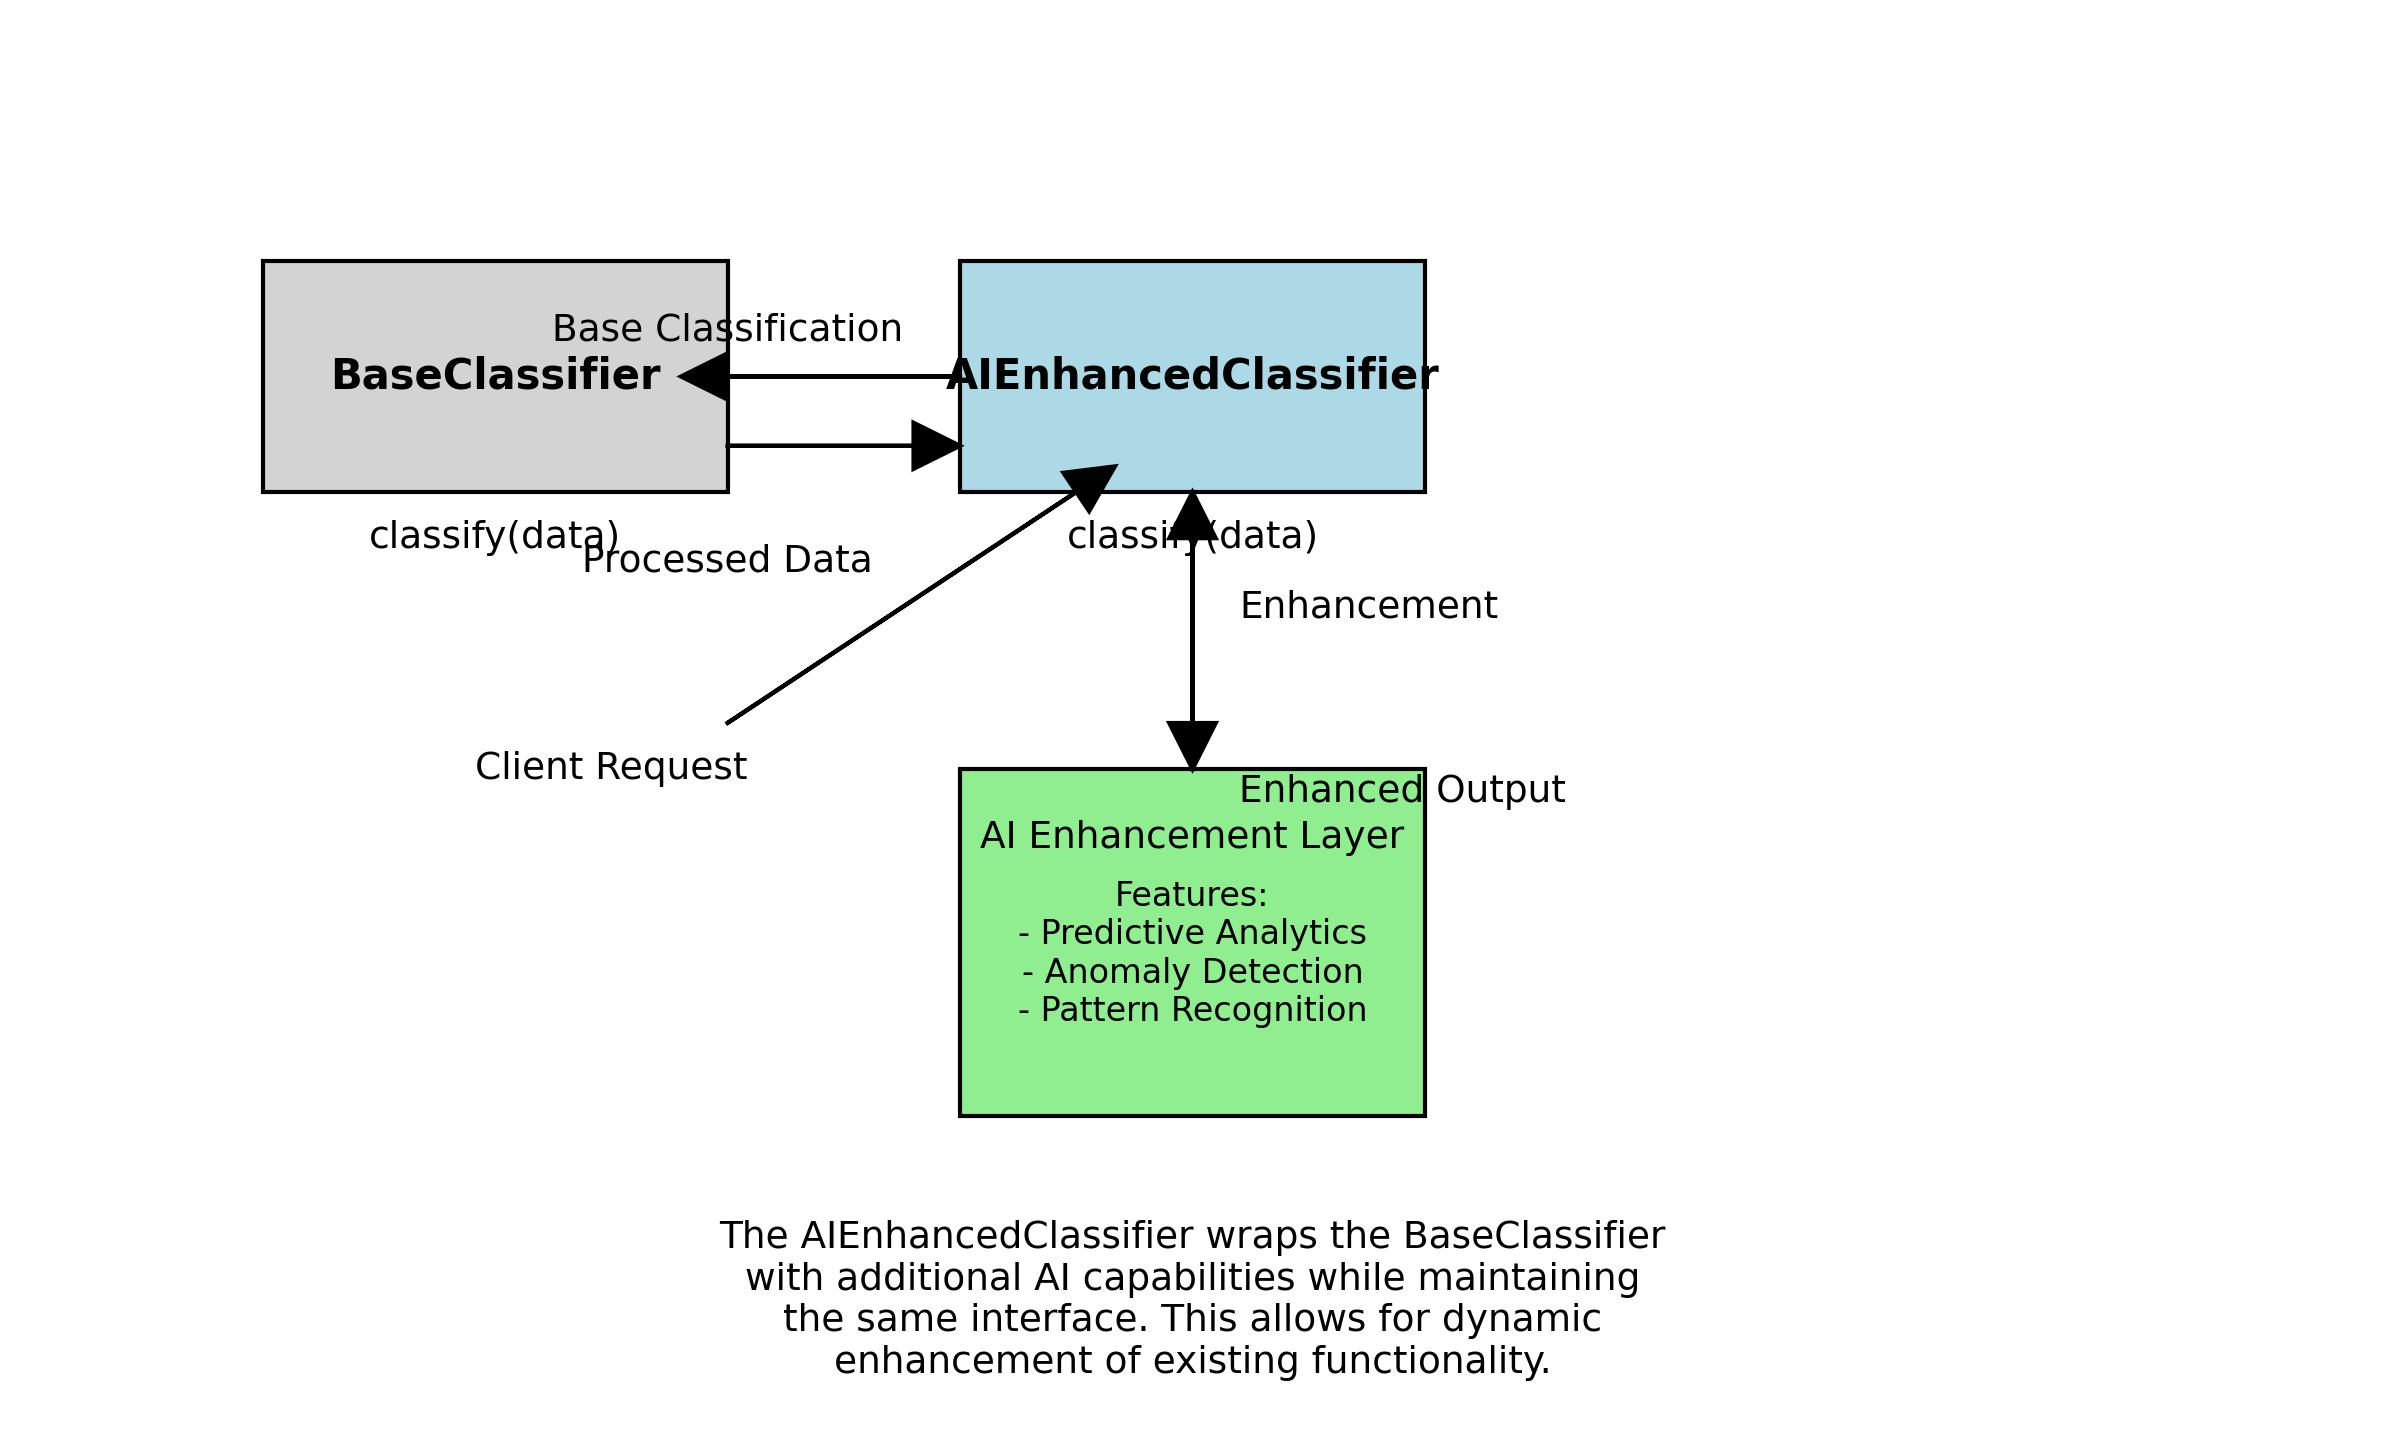
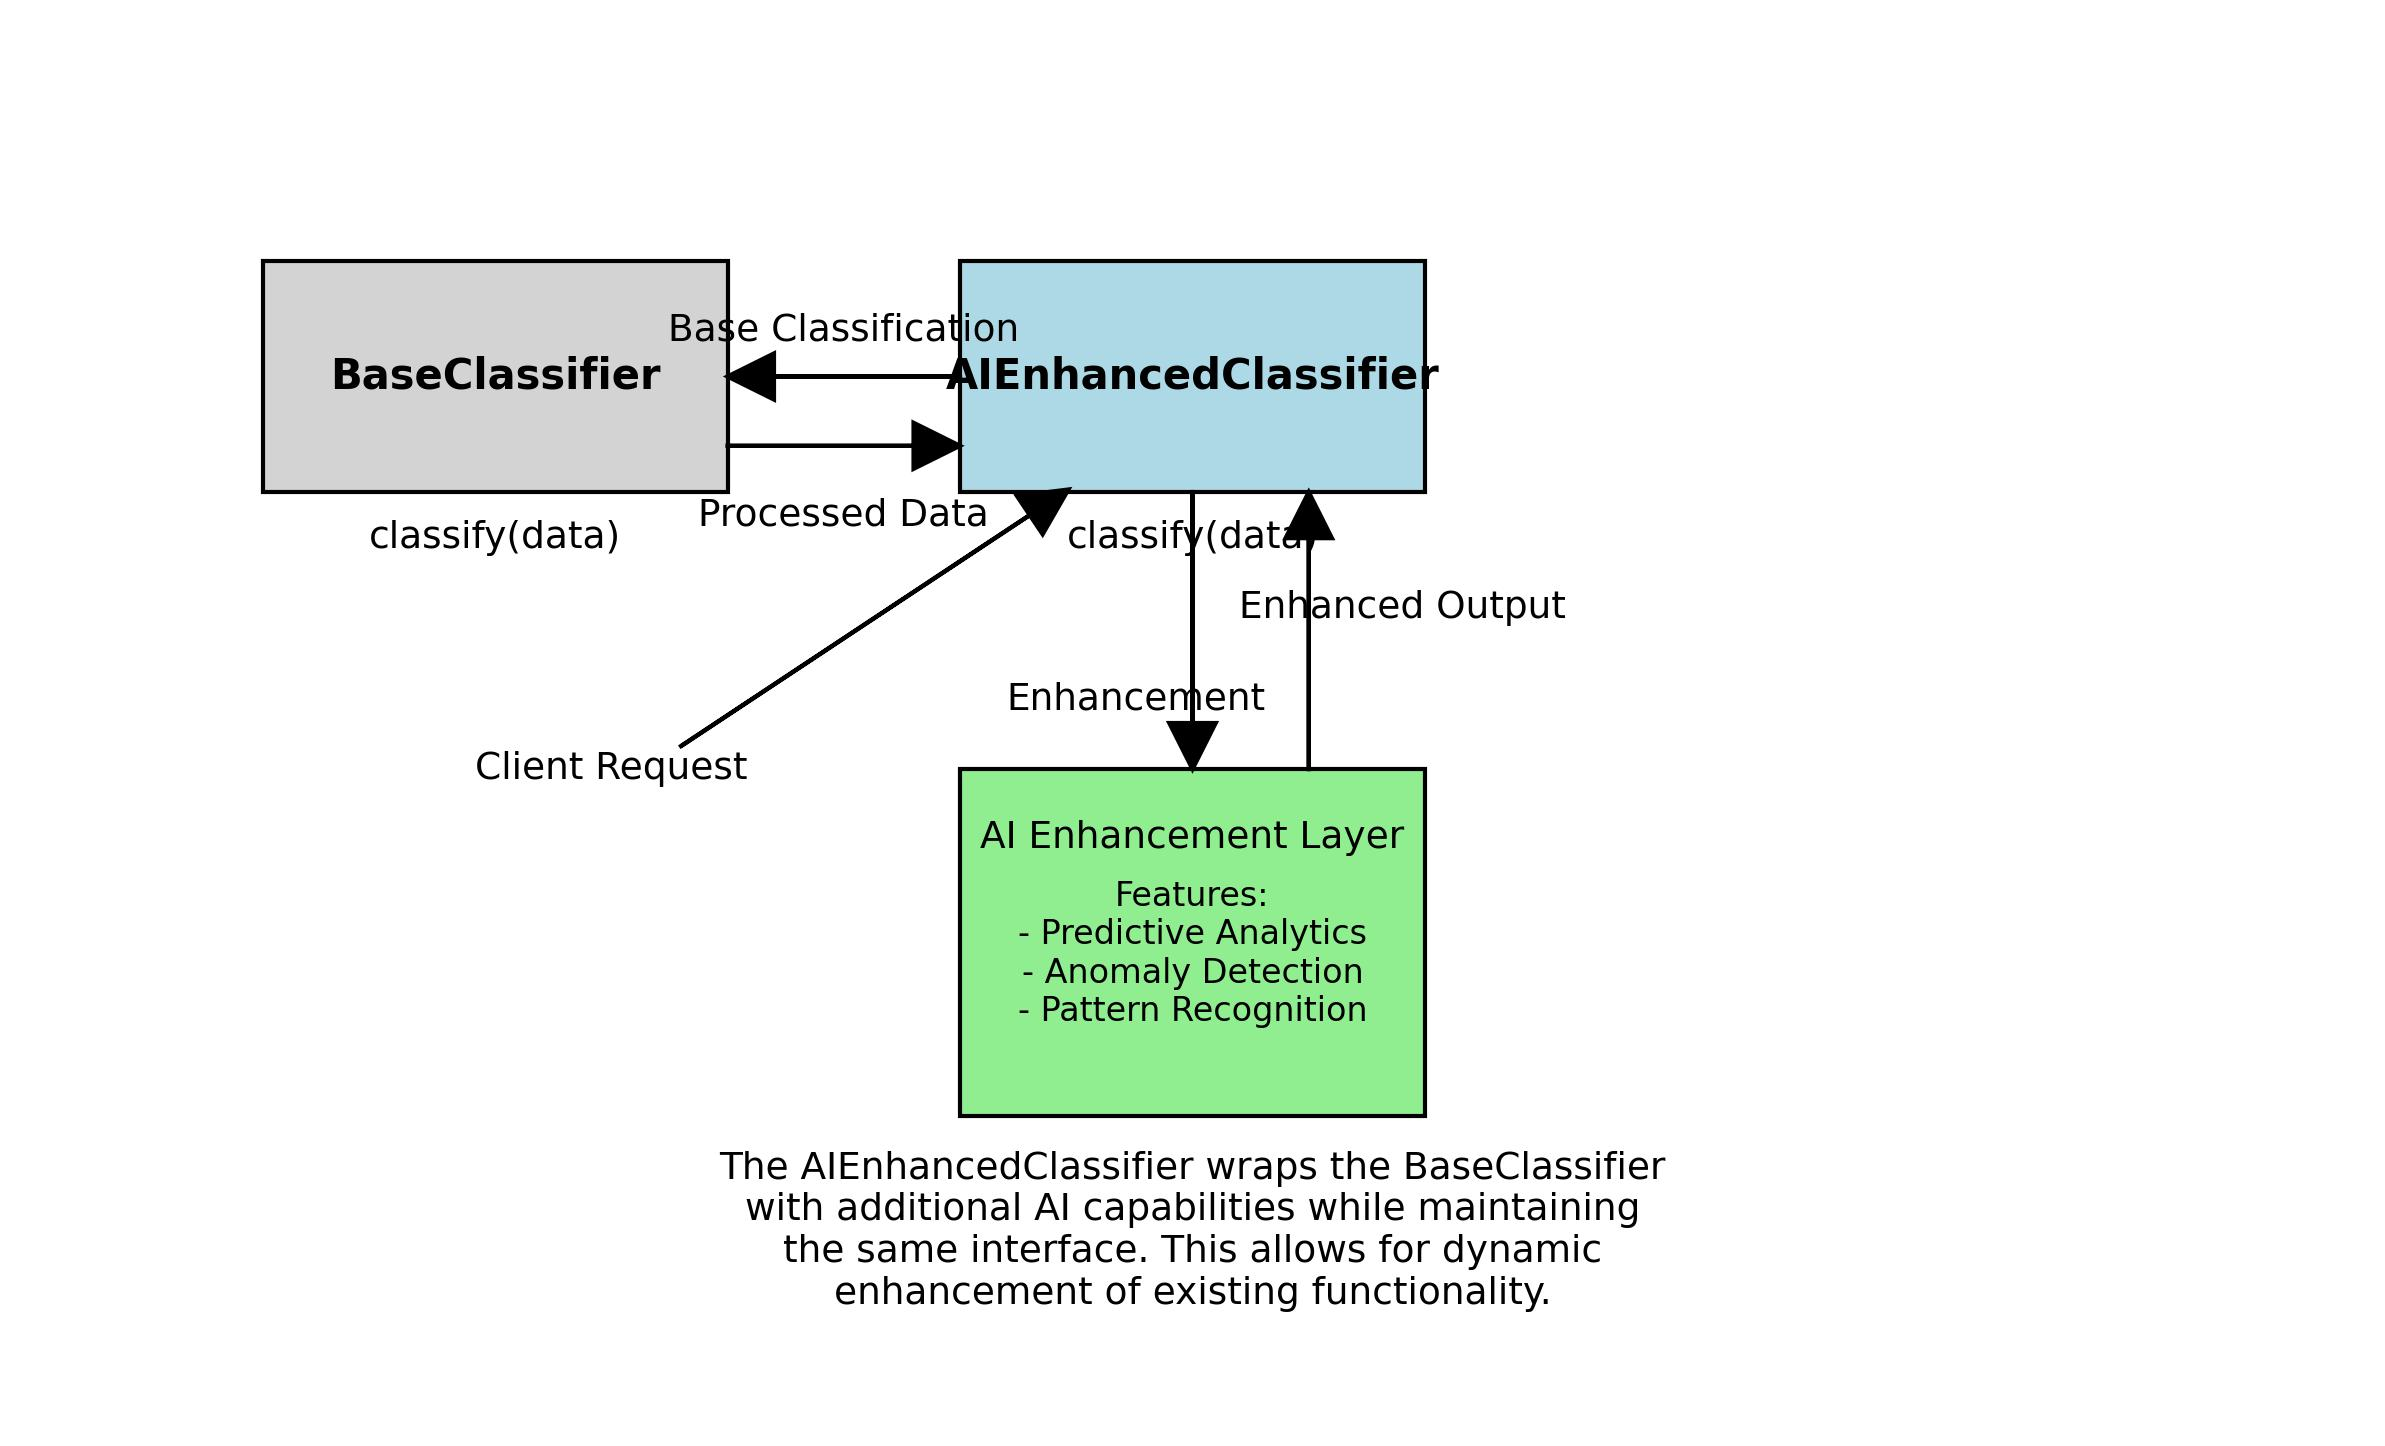
Update decorator figure.

diff --git a/draw_ai_decorator.py b/draw_ai_decorator.py
@@ -20,27 +20,27 @@ ax.text(5, 2.0, 'Features:\n- Predictive Analytics\n- Anomaly Detection\n- Patte
 
 # Draw arrows showing data flow
 # From client to AIEnhancedClassifier
-ax.arrow(3.0, 3.0, 1.5, 1, head_width=0.2, head_length=0.2, fc='black', ec='black')
+ax.arrow(2.8, 2.9, 1.5, 1, head_width=0.2, head_length=0.2, fc='black', ec='black')
 ax.text(2.5, 2.8, 'Client Request', fontsize=9, ha='center', va='center')
 
 # From AIEnhancedClassifier to BaseClassifier
-ax.arrow(4, 4.5, -1, 0, head_width=0.2, head_length=0.2, fc='black', ec='black')
-ax.text(3, 4.7, 'Base Classification', fontsize=9, ha='center', va='center')
+ax.arrow(4, 4.5, -0.8, 0, head_width=0.2, head_length=0.2, fc='black', ec='black')
+ax.text(3.5, 4.7, 'Base Classification', fontsize=9, ha='center', va='center')
 
 # From BaseClassifier to AIEnhancedClassifier
 ax.arrow(3, 4.2, 0.8, 0, head_width=0.2, head_length=0.2, fc='black', ec='black')
-ax.text(3, 3.7, 'Processed Data', fontsize=9, ha='center', va='center')
+ax.text(3.5, 3.9, 'Processed Data', fontsize=9, ha='center', va='center')
 
 # From AIEnhancedClassifier to AI Enhancement Layer
 ax.arrow(5, 4, 0, -1, head_width=0.2, head_length=0.2, fc='black', ec='black')
-ax.text(5.2, 3.5, 'Enhancement', fontsize=9, ha='left', va='center')
+ax.text(4.2, 3.1, 'Enhancement', fontsize=9, ha='left', va='center')
 
 # From AI Enhancement Layer to AIEnhancedClassifier
-ax.arrow(5, 2.8, 0, 1, head_width=0.2, head_length=0.2, fc='black', ec='black')
-ax.text(5.2, 2.7, 'Enhanced Output', fontsize=9, ha='left', va='center')
+ax.arrow(5.5, 2.8, 0, 1, head_width=0.2, head_length=0.2, fc='black', ec='black')
+ax.text(5.2, 3.5, 'Enhanced Output', fontsize=9, ha='left', va='center')
 
 # Add explanation text
-ax.text(5, 0.5, 'The AIEnhancedClassifier wraps the BaseClassifier\nwith additional AI capabilities while maintaining\nthe same interface. This allows for dynamic\nenhancement of existing functionality.', fontsize=9, ha='center', va='center')
+ax.text(5, 0.8, 'The AIEnhancedClassifier wraps the BaseClassifier\nwith additional AI capabilities while maintaining\nthe same interface. This allows for dynamic\nenhancement of existing functionality.', fontsize=9, ha='center', va='center')
 
 # Remove axes
 ax.set_xticks([])

diff --git a/README2.md b/README2.md
@@ -214,14 +214,14 @@ print(ai_classifier.classify("data"))
 
 ![./images/ai_decorator.jpg](./images/ai_decorator_diagram.jpg)
 
-**Overall Flow:**
-1. The client sends a request to the AIEnhancedClassifier.
-2. The AIEnhancedClassifier delegates the base classification task to the BaseClassifier.
-3. The BaseClassifier processes the data and returns the result to the AIEnhancedClassifier.
-4. The AIEnhancedClassifier sends the result to the AI Enhancement Layer for additional AI-based processing.
-5. The AI Enhancement Layer returns the enhanced output to the AIEnhancedClassifier, which then provides the final result to the client.
-
 - A base classifier wrapped with AI-based sentiment analysis.
+
+**Overall Flow:**
+1. The client sends a request to the **AIEnhancedClassifier**.
+2. The **AIEnhancedClassifier** delegates the base classification task to the **BaseClassifier**.
+3. The **BaseClassifier** processes the data and returns the result to the **AIEnhancedClassifier**.
+4. The **AIEnhancedClassifier** sends the result to the **AI Enhancement Layer** for additional AI-based processing.
+5. The **AI Enhancement Layer** returns the enhanced output to the **AIEnhancedClassifier**, which then provides the final result to the client.
 
 ---
 
